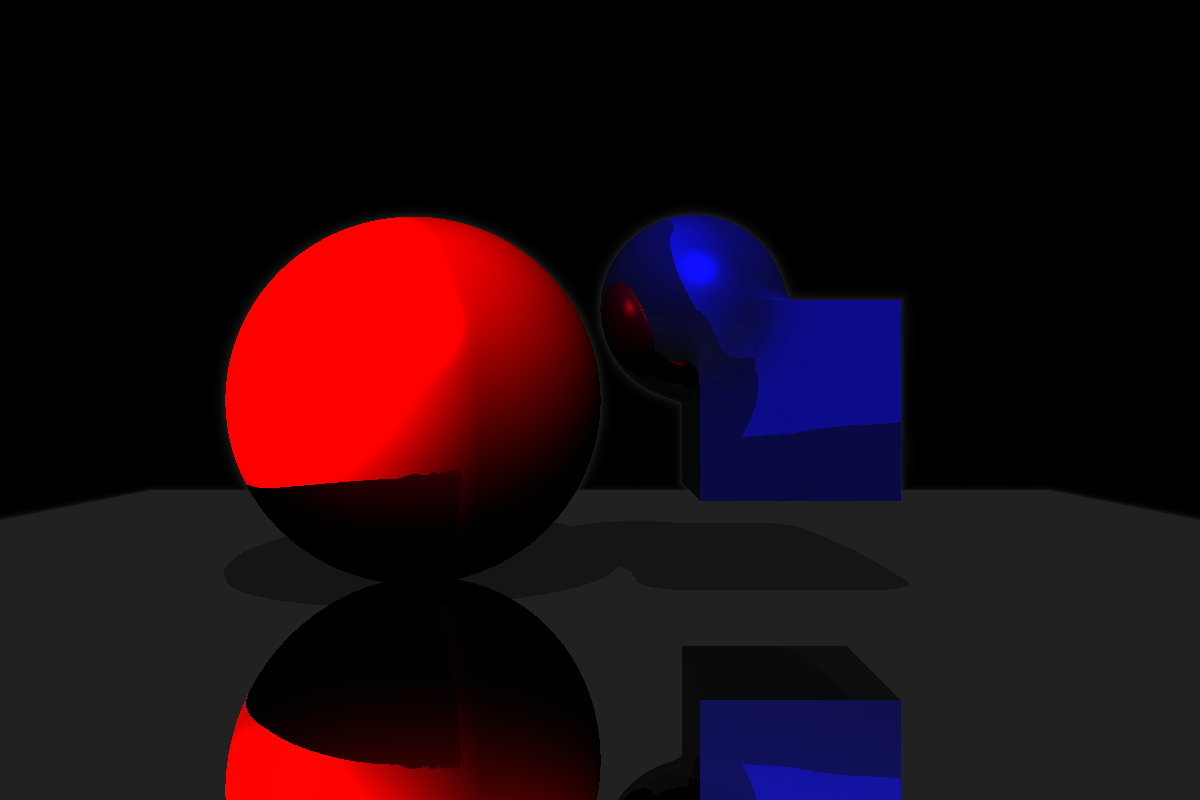
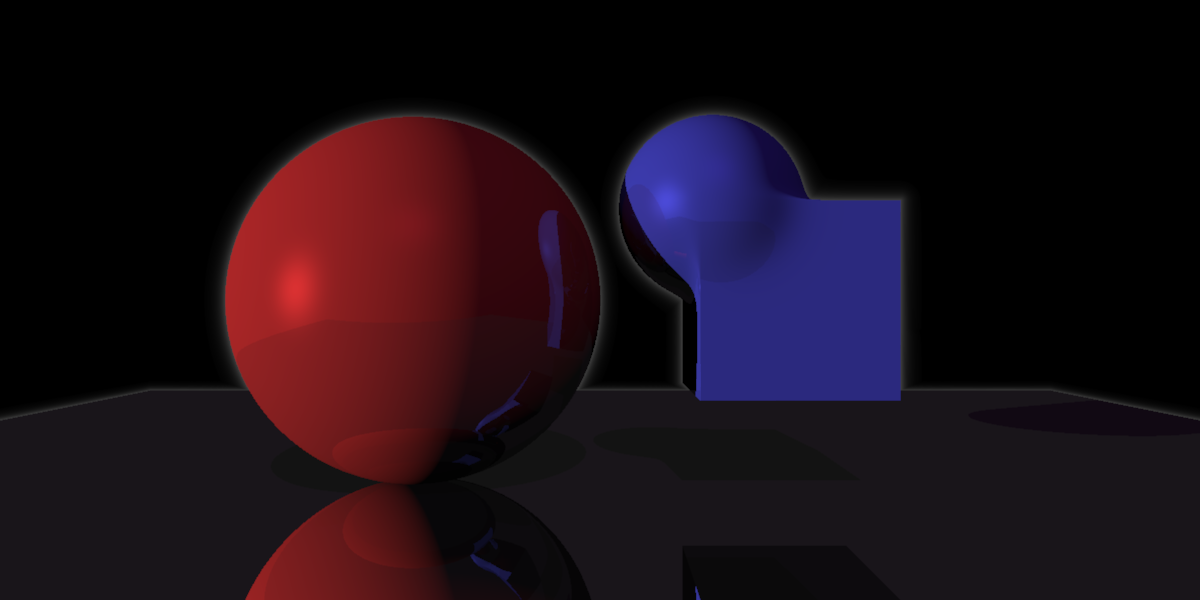
Improve glow, take light color into account
Tweak constants, add some dyn to make cargo happy

Changed region(s): [[0.0, 0.18, 1.0, 1.0]]

diff --git a/src/raytracer/scene.rs b/src/raytracer/scene.rs
@@ -1,16 +1,19 @@
-use super::color::{Color, BLACK, WHITE};
+use crate::raytracer::color::WHITE;
+use crate::raytracer::vector::_UNIT;
+
 use super::camera::Camera;
+use super::color::{BLACK, Color};
 use super::light::Light;
 use super::vector::Vector;
-use super::object::{Sphere, Box as OBox, BlendObjects, InsideOutObject, Object};
+use super::object::{Sphere, Box as OBox, BlendObjects, Object};
 use super::material::Material;
 use super::light::DirectionalLight;
 
 pub struct Scene {
-    background_color: Color<u8>,
+    background_color: Vector,
     camera: Camera,
-    objects: Vec<Box<Object>>,
-    lights: Vec<Box<Light>>,
+    objects: Vec<Box<dyn Object>>,
+    lights: Vec<Box<dyn Light>>,
     epsilon: f64,
     max_depth: i64,
     max_distance: f64
@@ -19,7 +22,7 @@ pub struct Scene {
 impl Scene {
     pub fn new() -> Self {
         Self {
-            background_color: BLACK,
+            background_color: BLACK.into(),
             camera: Camera::new((400, 400)),
             objects: Vec::new(),
             lights: Vec::new(),
@@ -33,11 +36,11 @@ impl Scene {
         self.camera = camera;
     }
 
-    pub fn add_object(&mut self, object: Box<Object>) {
+    pub fn add_object(&mut self, object: Box<dyn Object>) {
         self.objects.push(object);
     }
     
-    pub fn add_light(&mut self, light: Box<Light>) {
+    pub fn add_light(&mut self, light: Box<dyn Light>) {
         self.lights.push(light);
     }
 
@@ -45,25 +48,26 @@ impl Scene {
         let mut buffer = Vec::with_capacity(width * height * 3);
         for y in 0..height {
             for x in 0..width {
-                if let Some(color) = self.get_pixel(x, y) {
-                    buffer.push(color.red);
-                    buffer.push(color.green);
-                    buffer.push(color.blue);
-                } else {
-                    buffer.push(self.background_color.red);
-                    buffer.push(self.background_color.green);
-                    buffer.push(self.background_color.blue);
-                }
+                let colorf = self.compute_color_at(x, y);
+                // gamma correction
+                let colorf = colorf.powf(1.0 / 2.2);
+                let color: Color<u8> = colorf.into();
+                buffer.push(color.red);
+                buffer.push(color.green);
+                buffer.push(color.blue);
                 
             }
         }
         buffer
     }
 
-    fn get_pixel(&self, x: usize, y: usize) -> Option<Color<u8>> {
-        let (origin , direction) = self.camera.get_ray(x, y);
-        // gamma correction
-        self.cast_ray(origin, direction, self.max_depth).map(|color| color.powf(2.0).into())
+    fn compute_color_at(&self, x: usize, y: usize) -> Vector {
+        let rays = self.camera.get_rays(x, y, 5);
+        // let dso = [Vector::new(0.0, 0.0, 0.0);4];
+        let su: Vector = rays.iter().map(|(origin, direction)| -> Vector {
+            self.cast_ray(*origin, *direction, self.max_depth).unwrap_or(self.background_color)
+        }).fold(Vector::new(0.0, 0.0, 0.0), |acc, b| acc + b); // sum
+        su / 5.0
     }
 
     fn cast_ray(&self, origin: Vector, direction: Vector, depth: i64) -> Option<Vector> {
@@ -74,13 +78,13 @@ impl Scene {
         let mut point = origin;
         let mut closest_distance = 1e9;
         for _step in 0..1_000 {
-            if let Some(closest) = self.objects.iter().min_by(|a, b| a.distance(point).partial_cmp(&b.distance(point)).expect("NaN distance")) {
+            if let Some(closest) = self.objects.iter().min_by(|a, b| a.distance(point).partial_cmp(&b.distance(point)).unwrap_or(std::cmp::Ordering::Equal)) { // very wrong to return equal, if we have to unwrap one of the distance if probably NaN or infinty
                 let distance = closest.distance(point);
                 if distance < self.epsilon {
                     // println!("Hit");
                     let material = closest.get_material(point);
                     let normal = closest.normal(point);
-                    // correct hit position to be out the object by epsilon
+                    // correct hit position by epsilon to make sure were outside the object
                     let hit_position = point + direction.normalized() * (self.epsilon - distance);
                     // lighting
                     let mut color = Vector::zero();
@@ -88,6 +92,8 @@ impl Scene {
                         let towards_light = light.get_direction(hit_position);
                         // cast shadow
                         let offset_shadow_point = hit_position + towards_light * 1.0 / towards_light.dot(&normal).abs();
+                        // The light could be between the objects
+                        // TODO: check if the hit happens closer than the distance to the light
                         if self.cast_ray(offset_shadow_point, towards_light, 1.min(depth - 1)).is_some() {
                             // println!("Under shadow");
                             continue;
@@ -99,10 +105,10 @@ impl Scene {
                         // let light_direction = towards_light * -1.0;
                         let reflection: Vector = normal * 2.0 * (normal.dot(&towards_light)) - towards_light;
                         // point - origin : towards camera
-                        let spec = (origin - hit_position).normalized().dot(&reflection).max(0.0).powf(material.specular_power);
+                        let spec = (self.camera.origin - hit_position).normalized().dot(&reflection).max(0.0).powf(material.specular_power);
                         let specular: Vector = material.color * spec;
                         // let specular = Vector::zero();
-                        color = color + ambient + specular * material.specular_coeff;
+                        color = color + light.get_color().mul(ambient + specular * material.specular_coeff);
                     }
                     if material.reflection_coeff <= 0.0 {
                         return Some(color)
@@ -123,29 +129,34 @@ impl Scene {
                 }
                 // for halo effect
                 closest_distance = distance.min(closest_distance);
+                // march
                 point = point + direction * distance;
             } else {
+                // no closes objects, object list is empty (is it the only possible way we end up here?)
                 break;
             }
         }
-        let glow_distance = 0.5;
-        if closest_distance < glow_distance {
-            let glow = Vector::new(1.0, 1.0, 1.0) * (0.8 - closest_distance * 0.8 / glow_distance).powf(5.0);
+        // adds a lot of light to the scene
+        // allowing glow on reflection as well adds a lot of light to the scene
+        let glow_distance = 0.2;
+        if closest_distance < glow_distance && depth >= self.max_depth {
+            // could have some cool rainbow/chromatic aberation effects by shifting some colors depending on the distance
+            let glow = _UNIT * 0.05 * f64::exp(-7.0 * closest_distance / glow_distance);
             return Some(glow);
         }
         None
     }
 
+    /// Setup the debug scene
     pub fn debug(&mut self) {
         // scene.add_object(Object::Sphere(Vector::new(0.0, 0.0, 3.0), 4.0));
         let scb = Box::new(BlendObjects {
             objects: vec![
                 Box::new(Sphere {
-                    center: Vector::new(1.0, -1.0, -0.2),
+                    center: Vector::new(1.2, -1.0, -0.2),
                     radius: 1.0,
                     material: Material {
                         color: Vector::new(0.1, 0.1, 1.0),
-                        reflection_coeff: 0.5,
                         ..Material::debug()
                     }
                 }),
@@ -158,21 +169,31 @@ impl Scene {
             smooth_coef: 16.0
         });
         self.add_object(scb);
-        self.add_object(Box::new(Sphere::new(Vector::new(-2.0, 0.0, 0.0), 2.0, Color::new(255, 10, 10))));
+        self.add_object(Box::new(Sphere {
+            center: Vector::new(-2.0, 0.0, 0.0),
+            radius: 2.0,
+            material: Material {
+                color: Vector::new(1.0, 10.0 / 255.0, 10.0 / 255.0),
+                reflection_coeff: 0.2,
+                specular_coeff: 0.95,
+                specular_power: 35.0,
+                ..Material::debug()
+            }
+        }));
         
         // floor box
         self.add_object(Box::new(OBox {
                 center: Vector::new(0.0, 10.0, 0.0),
                 size: Vector::new(10.0, 8.0, 10.0),
                 material: Material {
-                    reflection_coeff: 0.9,
-                    ..Material::default_color(WHITE.into())
+                    reflection_coeff: 0.95,
+                    ..Material::default_color(Vector::from(WHITE) * 0.1)
                 }
         }));
     
         // scene.add_light(Box::new(DirectionalLight::new(Vector::new(-1.0, -1.0, 0.0))));
-        self.add_light(Box::new(DirectionalLight::new(Vector::new(1.0, -0.1, 0.5), WHITE.into())));
-        self.add_light(Box::new(DirectionalLight::new(Vector::new(-0.1, 1.0, 1.0), Vector::new(0.5, 0.2, 0.6))));
+        self.add_light(Box::new(DirectionalLight::new(Vector::new(1.0, 0.1, 0.5), _UNIT * 0.4)));
+        self.add_light(Box::new(DirectionalLight::new(Vector::new(-0.1, 1.0, 1.0), Vector::new(0.4, 0.1, 0.5) * 0.1)));
         // box behind the camera
         // self.add_object(Box::new(OBox::new(Vector::new(0.0, 0.0, -11.1), Vector::new(1.0, 1.0, 1.0), Color::debug())));
     }

diff --git a/src/raytracer/object.rs b/src/raytracer/object.rs
@@ -10,7 +10,7 @@ pub trait Object {
     fn normal(&self, point: Vector) -> Vector {
         // distance function derivative
         let dd = Vector {
-            x: (self.distance(point + UNIT_X * DERIVATIVE_EPSILON)) - self.distance(point - UNIT_X * DERIVATIVE_EPSILON),
+            x: self.distance(point + UNIT_X * DERIVATIVE_EPSILON) - self.distance(point - UNIT_X * DERIVATIVE_EPSILON),
             y: self.distance(point + UNIT_Y * DERIVATIVE_EPSILON) - self.distance(point - UNIT_Y * DERIVATIVE_EPSILON),
             z: self.distance(point + UNIT_Z * DERIVATIVE_EPSILON) - self.distance(point - UNIT_Z * DERIVATIVE_EPSILON)
         };
@@ -72,13 +72,13 @@ impl Object for Box {
         q.max(0.0).norm() + q.x.max(q.y.max(q.z)).min(0.0)
     }
 
-    fn get_material(&self, point: Vector) -> Material {
+    fn get_material(&self, _point: Vector) -> Material {
         self.material
     }
 }
 
 pub struct BlendObjects {
-    pub objects: Vec<boxed::Box<Object>>,
+    pub objects: Vec<boxed::Box<dyn Object>>,
     pub smooth_coef: f64
 }
 
@@ -96,7 +96,7 @@ impl Object for BlendObjects {
 }
 
 pub struct InsideOutObject {
-    pub object: boxed::Box<Object>
+    pub object: boxed::Box<dyn Object>
 }
 
 impl Object for InsideOutObject {

diff --git a/src/raytracer/vector.rs b/src/raytracer/vector.rs
@@ -42,7 +42,7 @@ impl Vector {
     pub fn normalized(&self) -> Vector {
         *self / self.norm()
     }
-    // impl iter instead
+    // could impl iter instead/whatever allows mapping
     pub fn abs(&self) -> Vector {
         Vector {
             x: self.x.abs(),
@@ -64,6 +64,19 @@ impl Vector {
             x: self.x.powf(n),
             y: self.y.powf(n),
             z: self.z.powf(n)
+        }
+    }
+
+    pub fn has_nan(&self) -> bool {
+        // one more reason to implement map/iter capability
+        self.x.is_nan() || self.y.is_nan() || self.z.is_nan()
+    }
+
+    pub fn mul(&self, other:Vector) -> Vector {
+        Vector {
+            x: self.x * other.x,
+            y: self.y * other.y,
+            z: self.z * other.z,
         }
     }
 }

diff --git a/src/raytracer/material.rs b/src/raytracer/material.rs
@@ -16,7 +16,7 @@ impl Material {
     pub fn default_color(color: Vector) -> Self {
         Material {
             color,
-            reflection_coeff: 0.0,
+            reflection_coeff: 0.2,
             specular_coeff: 0.8,
             specular_power: 20.0
         }
